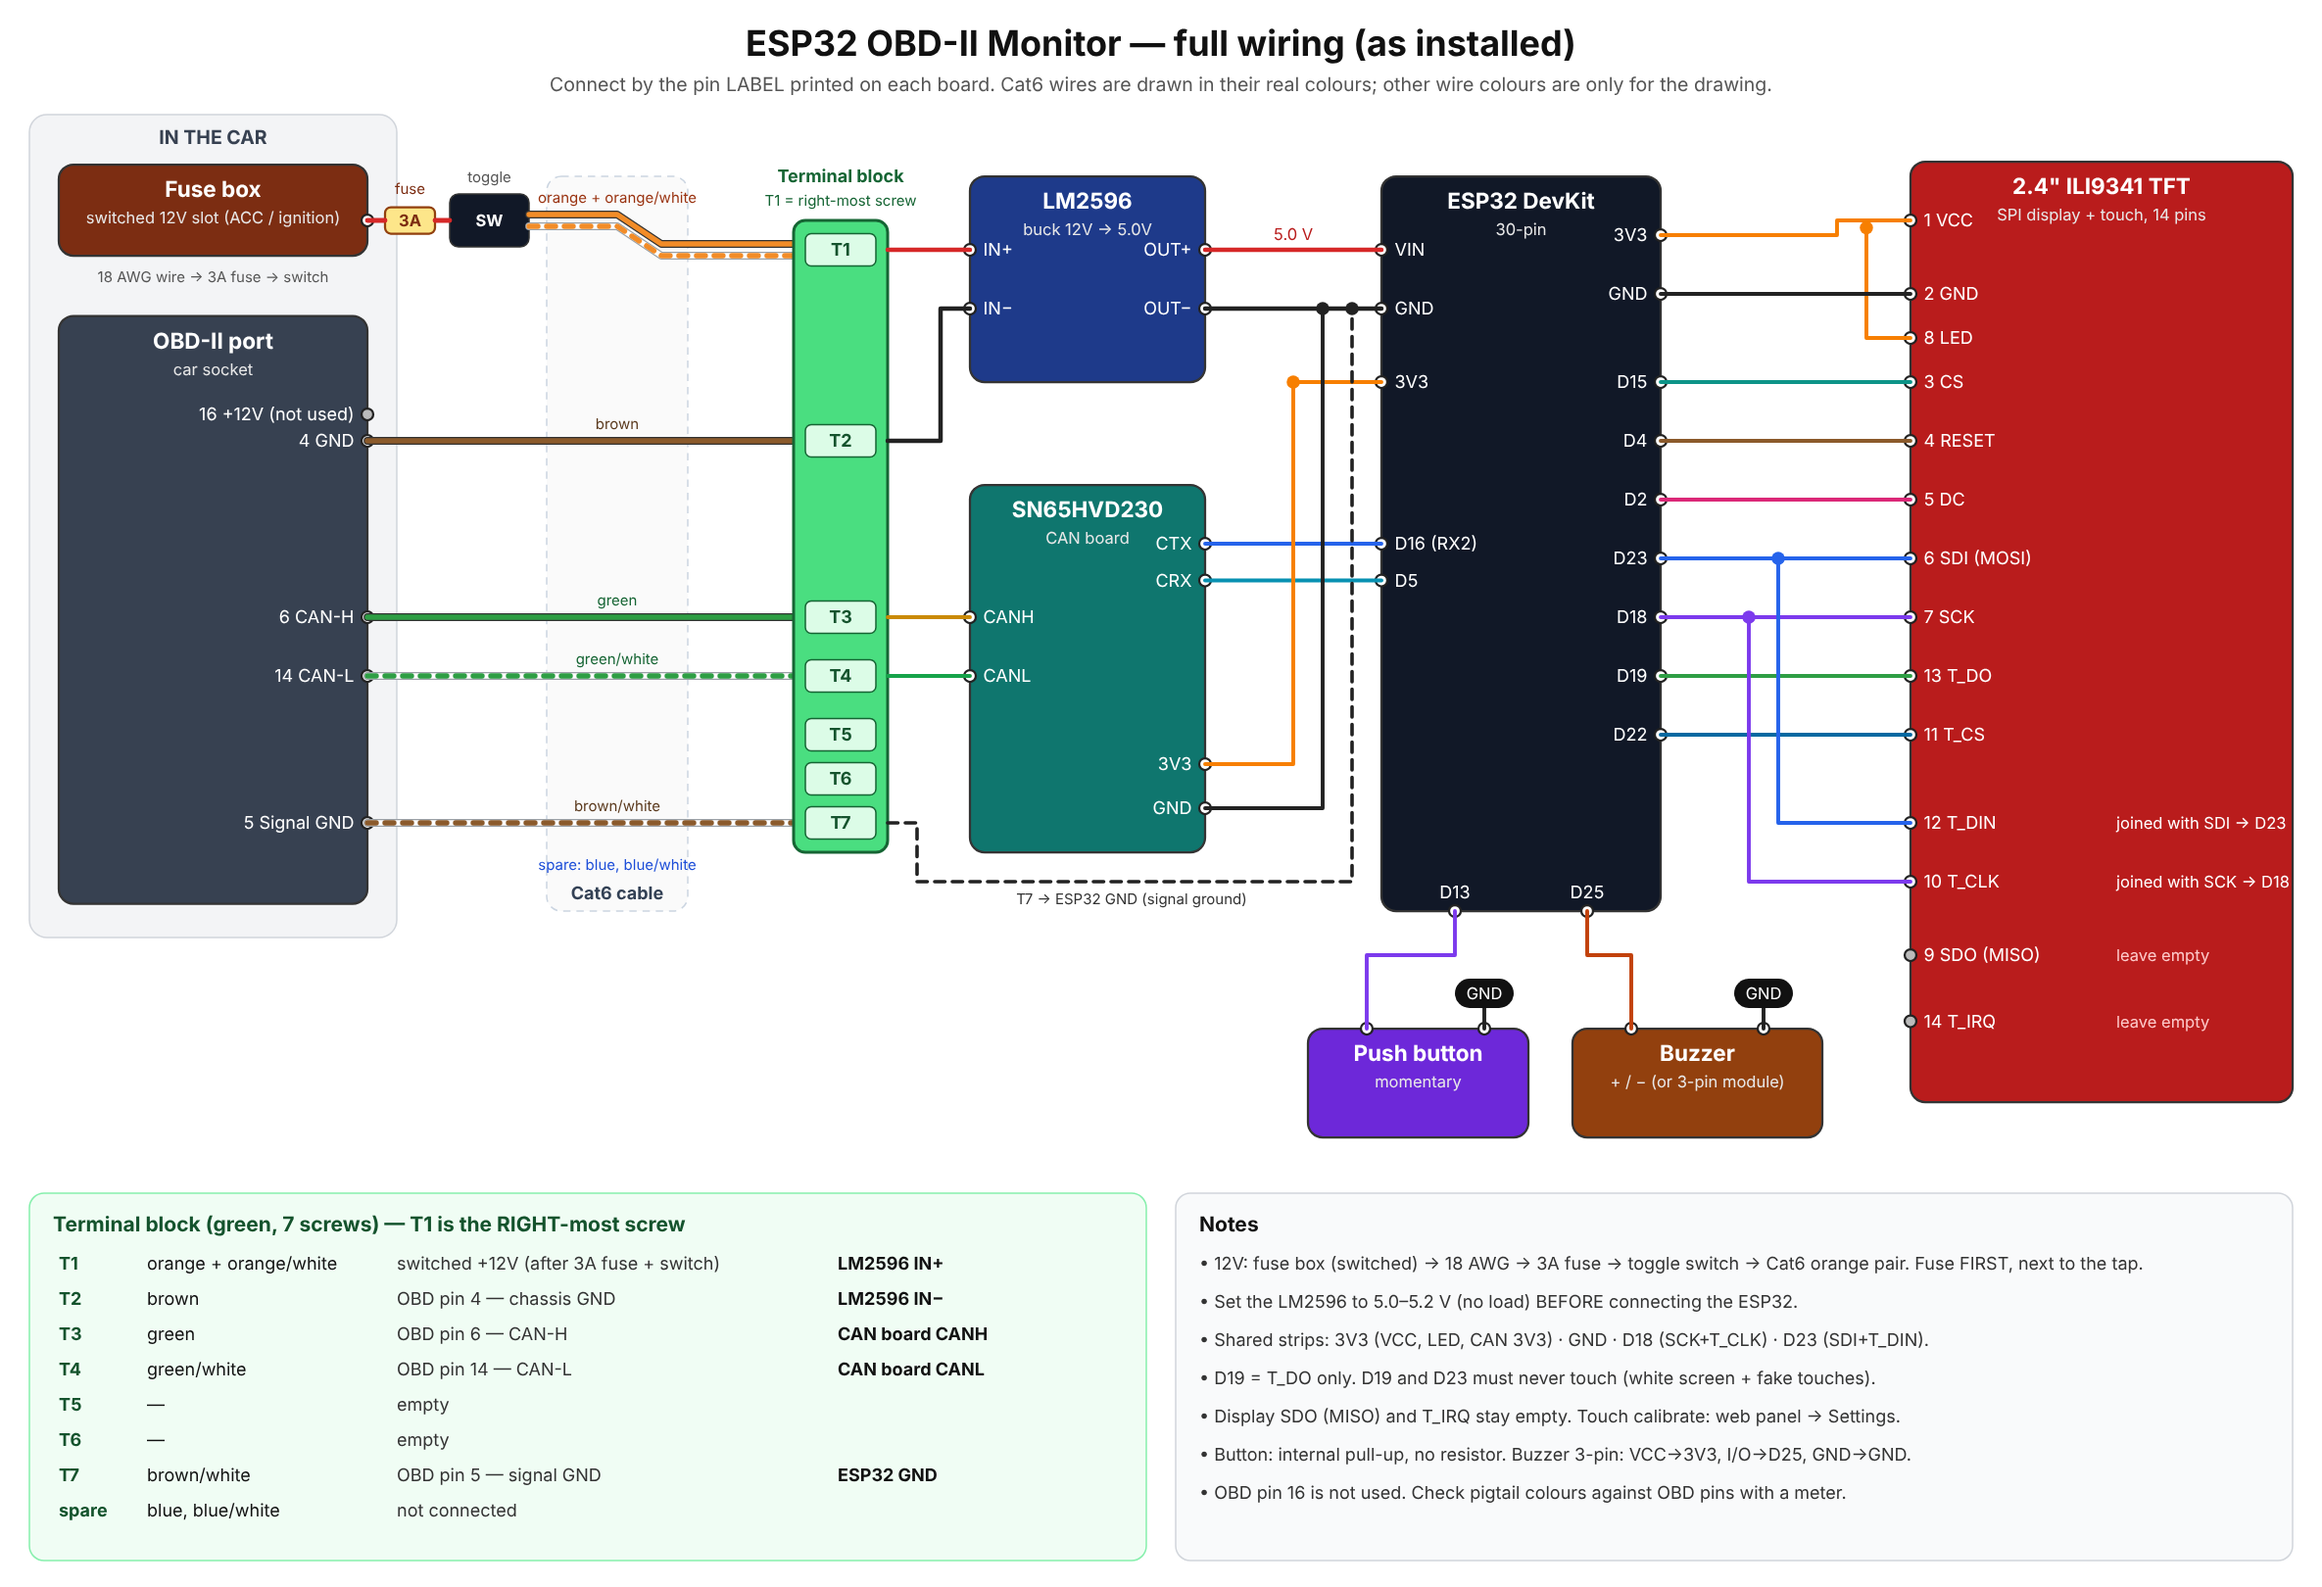
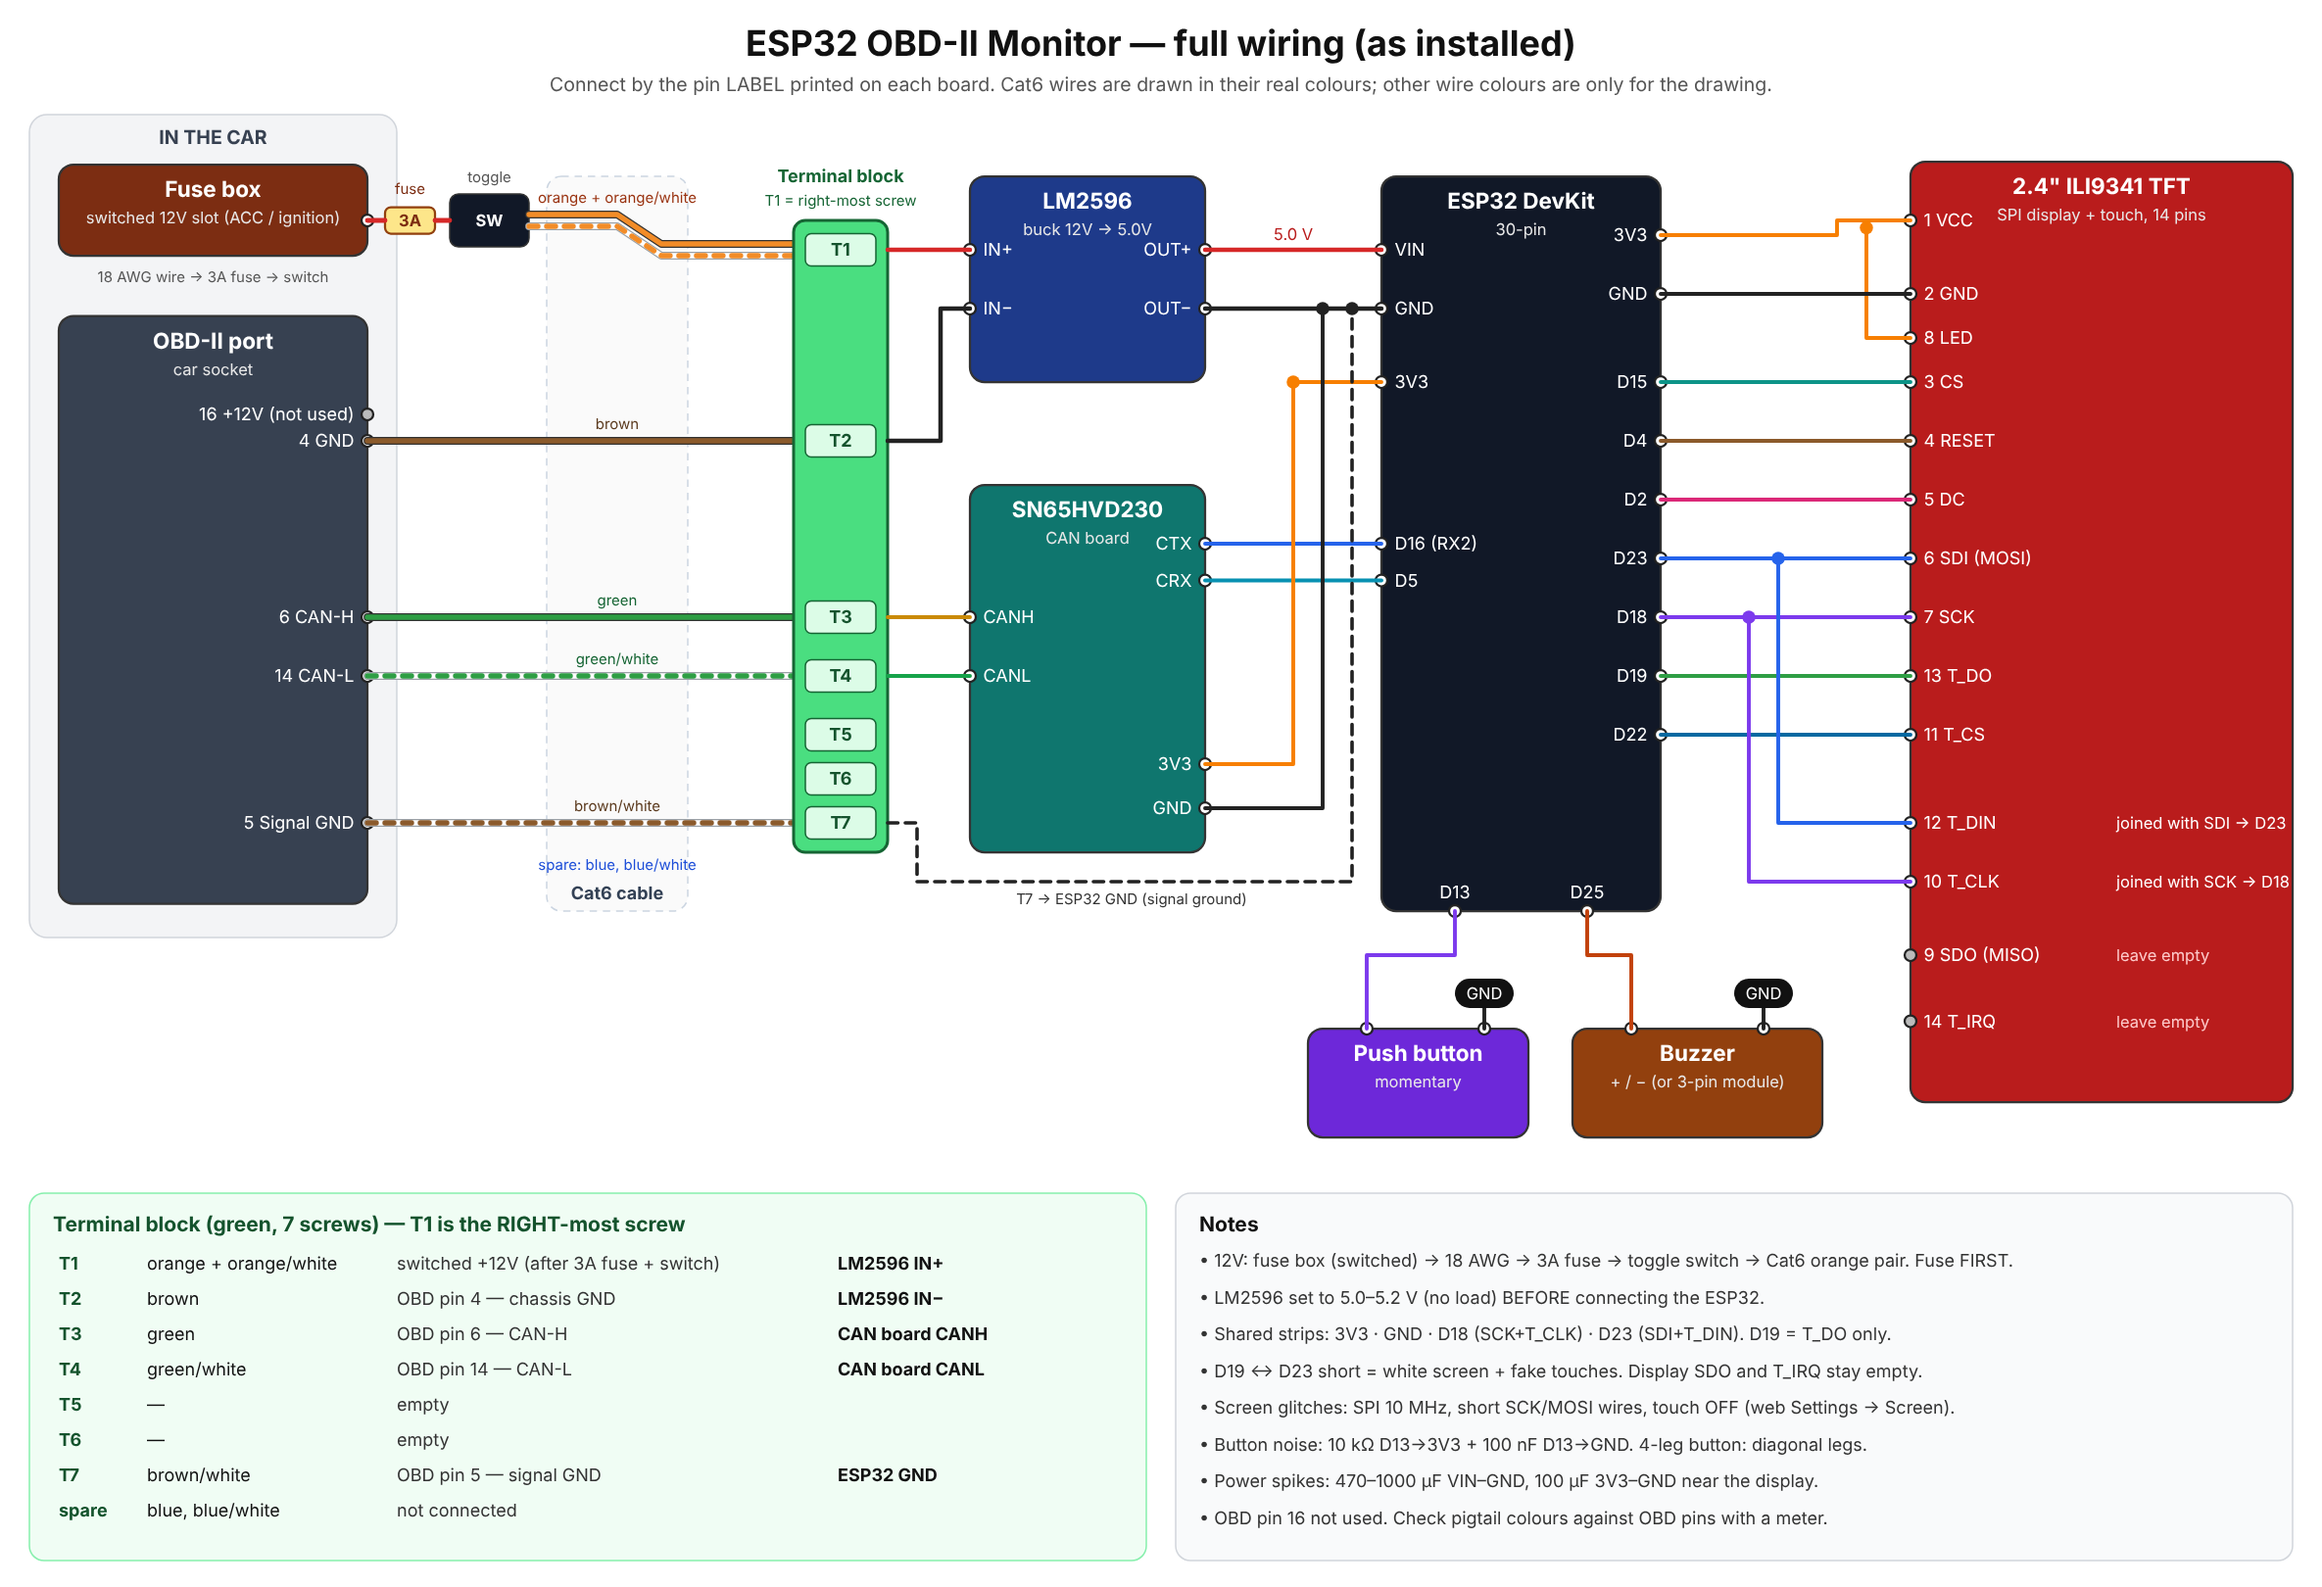
Docs: updated wiring notes, troubleshooting, mock ESP32 data for n8n
- Wiring diagram notes: touch off, button noise filter, capacitors, D19/D23
- README + WIRING.txt troubleshooting table from the real build
- integrations/home-assistant/mock: fake ESP32 stream workflow, pin data, sample JSON + curl

Claude-Session: https://claude.ai/code/session_01RPQw6btHRV2FXbZkCgycn1

Changed region(s): [[0.4996, 0.7716, 0.9055, 0.9568]]

diff --git a/README.md b/README.md
@@ -249,6 +249,19 @@ Ready-made binaries are in [`firmware/bin/`](firmware/bin/) (see `FLASHING.txt`)
 - `obd_monitor_v3.5_FULL_flash_at_0x0.bin`: first install over USB, flash at **0x0** with any Chrome/Edge browser at https://espressif.github.io/esptool-js/ (no Arduino IDE needed)
 - `obd_monitor_v3.5_ota.bin`: updates over WiFi from the web panel
 
+## Troubleshooting (lessons from the real build)
+
+| Symptom | Cause | Fix |
+|---|---|---|
+| White screen | Display data line wrong or **D19 and D23 touching** | Check CS→D15, DC→D2, RESET→D4, SCK→D18, SDI→D23; D19↔D23 must not beep |
+| Garbage on the screen, worse when touching it | Touch chip traffic on the shared SCK/MOSI wires | SPI 10 MHz (default), short soldered SCK/MOSI wires, **touch off** in Settings → Screen |
+| Screen garbled/white after a while in the car | Electrical noise / power spikes | Auto repaint (Settings → Screen), 470–1000 µF VIN–GND + 100 µF 3V3–GND |
+| Touch does nothing | T_DIN on the wrong pin (must be D23), not calibrated | Fix wiring, Settings → Calibrate touch screen; `/api/touch` shows raw values |
+| Pages change by themselves / button dead | D13 shorted to GND or noise on a long wire | v3.5 ignores glitches & a stuck button; add 10 kΩ D13→3V3 + 100 nF D13→GND; 4-leg button: diagonal legs |
+| Stays in DEMO in the car | No CAN reply | Ignition on, CANH/CANL not swapped, same twisted pair, GND to OBD pin 5 |
+| Web flasher "Failed to connect" | ESP32 not in download mode | Baud 115200, hold BOOT while connecting (or BOOT + tap EN) |
+| No COM port on Windows | Missing USB driver | Install the CP210x (or CH340) driver |
+
 ## Streaming format
 Data URL (every *Send every* seconds, up to 40 records per POST):
 ```json
@@ -266,6 +279,7 @@ Your endpoint must answer HTTP 2xx, otherwise the data is kept and sent again. F
 
 ## Home Assistant
 Car data → n8n → Home Assistant sensors + dashboard + alert notifications: see [`integrations/home-assistant/`](integrations/home-assistant/) (importable n8n workflow + dashboard card).
+Test without the car: [`integrations/home-assistant/mock/`](integrations/home-assistant/mock/) (fake ESP32 stream for n8n, sample JSON + curl).
 
 ## Repository layout
 ```

diff --git a/integrations/home-assistant/mock/README.md b/integrations/home-assistant/mock/README.md
@@ -1,0 +1,15 @@
+# Mock ESP32 data (test n8n / Home Assistant without the car)
+
+| File | Use |
+|---|---|
+| `n8n_mock_esp_stream.json` | n8n workflow: every 10 s it POSTs a fake ESP32 batch (5 records, drive cycle, engine warming up) to your webhook. Import → set the URL in **POST like the ESP32** to your `…/webhook/car-obd` → Activate (or click **Run once**). Deactivate when done. |
+| `n8n_pin_webhook_log.json` | Pin data for the **Webhook** node: open the node → Output → **Edit / Pin data** → paste. Lets you click "Test step" on the following nodes without sending anything. |
+| `sample_log.json` | One ESP32 data batch (exact format). |
+| `sample_alert.json` | One ESP32 alert (coolant above 105). |
+
+Send the samples with curl (replace the URL):
+```bash
+curl -X POST -H "Content-Type: application/json" -d @sample_log.json   https://YOUR-N8N/webhook/car-obd
+curl -X POST -H "Content-Type: application/json" -d @sample_alert.json https://YOUR-N8N/webhook/car-alert
+```
+Use the **/webhook/** (production, workflow active) or **/webhook-test/** (editor "Listen for test event") URL.
